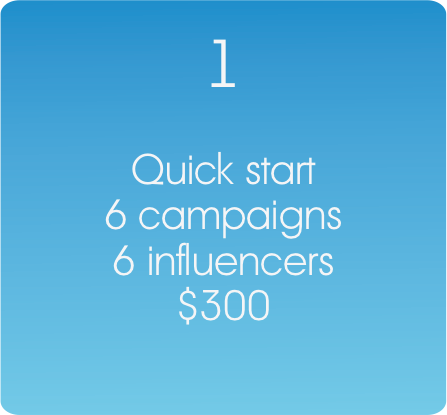
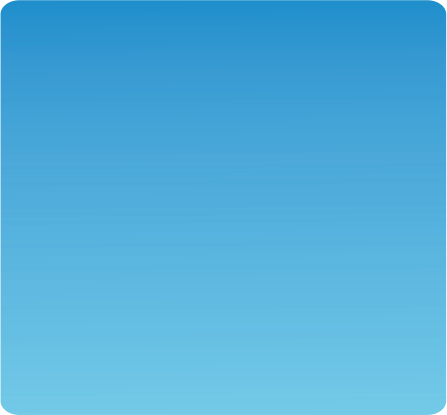
latest

diff --git a/src/components/businessComponents/AnimationTwoFactoryFour.js b/src/components/businessComponents/AnimationTwoFactoryFour.js
@@ -94,7 +94,7 @@ const NewComponent = (props) => {
   const mount = useRef(null);
   const history = useHistory();
   //xx
-  const [topPosition,SetTopPosition] = useState(3);
+  const [topPosition,SetTopPosition] = useState(0);
 
   // var props = {
   //   page:3
@@ -351,6 +351,13 @@ const NewComponent = (props) => {
 
           const FirstPartOfText = () => {
             //1 part
+            Lines8_a_mesh.remove(TextmeshAn);
+            Lines8_a_mesh.remove(TextmeshAn2);
+            Lines8_a_mesh.remove(TextmeshAn3);
+            Lines8_a_mesh.remove(TextmeshAn4);
+            Lines8_a_mesh.remove(TextmeshAn5);
+            Lines8_a_mesh.remove(TextmeshAn6);
+
             textGeometryAn = new THREE.TextGeometry(LocalizeComponent.analyzeOne, textOptionsAn);
             TextmeshAn = new THREE.Mesh( textGeometryAn, textMaterialLeft );
             TextmeshAn.geometry.center();
@@ -395,6 +402,14 @@ const NewComponent = (props) => {
           }
 
           const SecondPartOfText = () => {
+
+            Lines8_a_mesh.remove(TextmeshAn);
+            Lines8_a_mesh.remove(TextmeshAn2);
+            Lines8_a_mesh.remove(TextmeshAn3);
+            Lines8_a_mesh.remove(TextmeshAn4);
+            Lines8_a_mesh.remove(TextmeshAn5);
+            Lines8_a_mesh.remove(TextmeshAn6);
+
             const textOptionsS = {
               font,
               size: 27, // font size
@@ -410,6 +425,12 @@ const NewComponent = (props) => {
           }
 
           const ThirdPartOfText = () => {
+
+            Lines8_a_mesh.remove(TextmeshAn);
+            Lines8_a_mesh.remove(TextmeshAn);
+            Lines8_a_mesh.remove(TextmeshAn2);
+
+
             const textOptionsS = {
               font,
               size: 27, // font size
@@ -423,8 +444,13 @@ const NewComponent = (props) => {
             Lines8_a_mesh.add(TextmeshAn);
               //1 part
           }
-//xx
+
           const FourPartOfText = () => {
+
+            Lines8_a_mesh.remove(TextmeshAn);
+            Lines8_a_mesh.remove(TextmeshAn2);
+            Lines8_a_mesh.remove(TextmeshAn3);
+
             const textOptionsS = {
               font,
               size: 27, // font size
@@ -439,20 +465,25 @@ const NewComponent = (props) => {
             //1 part
             //2 part
             textGeometryAn2 = new THREE.TextGeometry(LocalizeComponent.acceptTwo, textOptionsS);
-            TextmeshTwo = new THREE.Mesh( textGeometryAn2, textMaterialLeft );
-            TextmeshTwo.geometry.center();
-            TextmeshTwo.position.y = 0;
-            Lines8_a_mesh.add(TextmeshTwo);
+            TextmeshAn2 = new THREE.Mesh( textGeometryAn2, textMaterialLeft );
+            TextmeshAn2.geometry.center();
+            TextmeshAn2.position.y = 0;
+            Lines8_a_mesh.add(TextmeshAn2);
             //2 part
             //3 part
             textGeometryAn3 = new THREE.TextGeometry(LocalizeComponent.acceptThree, textOptionsS);
-            TextmeshThree = new THREE.Mesh( textGeometryAn3, textMaterialLeft );
-            TextmeshThree.geometry.center();
-            TextmeshThree.position.y = -40;
-            Lines8_a_mesh.add(TextmeshThree);
+            TextmeshAn3 = new THREE.Mesh( textGeometryAn3, textMaterialLeft );
+            TextmeshAn3.geometry.center();
+            TextmeshAn3.position.y = -40;
+            Lines8_a_mesh.add(TextmeshAn3);
             //3 part
           }
-          var TextsArray = [FirstPartOfText(),SecondPartOfText(),ThirdPartOfText(),FourPartOfText()];
+          var TextsArray = [
+            FirstPartOfText,
+            SecondPartOfText,
+            ThirdPartOfText,
+            FourPartOfText
+          ];
 
 
           //text
@@ -466,8 +497,12 @@ const NewComponent = (props) => {
                 currentPosition = 0;
               }
 
+
+
             Lines8_a.map.dispose();
             Lines8_a.map = new THREE.TextureLoader().load(OnTopArray[currentPosition]);
+            const callingFunc = TextsArray[currentPosition];
+            callingFunc();
           }
 
           const changeBack = () => {
@@ -476,10 +511,14 @@ const NewComponent = (props) => {
                 currentPosition--;
                 Lines8_a.map.dispose();
                 Lines8_a.map = new THREE.TextureLoader().load(OnTopArray[currentPosition]);
+                const callingFunc = TextsArray[currentPosition];
+                callingFunc();
               }
 
 
           }
+          const callingFunc = TextsArray[currentPosition];
+          callingFunc();
 
           //onTopLeft
           const onTopLeft_a = new THREE.MeshBasicMaterial({
@@ -523,7 +562,7 @@ const NewComponent = (props) => {
           });
           //onTopRight
 
-
+//xx
           //pricing
           const Pricing_a = new THREE.MeshBasicMaterial({
               map:new THREE.TextureLoader().load(Pricing)
@@ -537,6 +576,89 @@ const NewComponent = (props) => {
           Pricing_a_mesh.position.y = -1563;
           Pricing_a_mesh.scale.set(0.24,0.24,0.24);
           scene2.add(Pricing_a_mesh);
+
+          const textOptionsSp = {
+            font,
+            size: 37, // font size
+            height: 15, // how much extrusion (how thick / deep are the letters)
+          };
+
+          var textMaterialLeft = new THREE.MeshBasicMaterial(
+            { color: BlueTextColor }
+          );
+
+          var textGeometrySP = new THREE.TextGeometry(LocalizeComponent.SubscP, textOptionsSp);
+          var TextmeshSp = new THREE.Mesh( textGeometrySP, textMaterialLeft );
+          TextmeshSp.geometry.center();
+          TextmeshSp.position.y = 5;
+          Pricing_a_mesh.add(TextmeshSp);
+//xx
+          var priceArray = [
+            {
+              name:LocalizeComponent.p1,
+              compaign:LocalizeComponent.p2,
+              count:LocalizeComponent.p3,
+              price:LocalizeComponent.p4,
+              index:1,
+              s0:120,
+              s1:45,
+              s2:-5,
+              s3:-50,
+              s4:-100,
+              b1:50,
+              b2:-5,
+              b3:-55,
+              b4:-105,
+            },
+            {
+              name:LocalizeComponent.p5,
+              compaign:LocalizeComponent.p6,
+              count:LocalizeComponent.p3,
+              price:LocalizeComponent.p7,
+              index:2,
+              s0:120,
+              s1:45,
+              s2:-5,
+              s3:-50,
+              s4:-100,
+              b1:50,
+              b2:-5,
+              b3:-55,
+              b4:-105,
+            },
+            {
+              name:LocalizeComponent.p8,
+              compaign:LocalizeComponent.p6,
+              count:LocalizeComponent.p3,
+              price:LocalizeComponent.p9,
+              index:3,
+              s0:120,
+              s1:45,
+              s2:-5,
+              s3:-50,
+              s4:-100,
+              b1:50,
+              b2:-5,
+              b3:-55,
+              b4:-105,
+            },
+            {
+              name:LocalizeComponent.p10,
+              compaign:LocalizeComponent.p2,
+              count:LocalizeComponent.p3,
+              price:LocalizeComponent.p11,
+              index:4,
+              s0:120,
+              s1:45,
+              s2:-5,
+              s3:-50,
+              s4:-100,
+              b1:50,
+              b2:-5,
+              b3:-55,
+              b4:-105,
+            }
+          ]
           //pricing
 
           var smallPlansArray = [Plans1_small,Plans2_small,Plans3_small,Plans4_small];
@@ -560,6 +682,86 @@ const NewComponent = (props) => {
           Plans1_a_mesh.scale.set(0.21,0.21,0.21);
           scene2.add(Plans1_a_mesh);
 
+          var textOptionsBn = {
+            font,
+            size: 50, // font size
+            height: 5, // how much extrusion (how thick / deep are the letters)
+          };
+          var textOptionsQ = {
+            font,
+            size: 27, // font size
+            height: 5, // how much extrusion (how thick / deep are the letters)
+          };
+          var textMaterialQ = new THREE.MeshBasicMaterial(
+            { color: BlueTextColor }
+          );
+
+          var textGeometryindex = new THREE.TextGeometry("", textOptionsBn);
+          var TextmeshI = new THREE.Mesh( textGeometryindex, textMaterialQ );
+
+          var textGeometryQ = new THREE.TextGeometry("", textOptionsQ);
+          var TextmeshQ = new THREE.Mesh( textGeometryQ, textMaterialQ );
+
+          var textGeometryQ2 = new THREE.TextGeometry("", textOptionsQ);
+          var TextmeshQ2 = new THREE.Mesh( textGeometryQ2, textMaterialQ );
+
+          var textGeometryQ3 = new THREE.TextGeometry("", textOptionsQ);
+          var TextmeshQ3 = new THREE.Mesh( textGeometryQ3, textMaterialQ );
+
+          var textGeometryQ4 = new THREE.TextGeometry("", textOptionsQ);
+          var TextmeshQ4 = new THREE.Mesh( textGeometryQ4, textMaterialQ );
+
+          const setMesh = (mesh,meshObj,option) => {
+
+              mesh.remove(TextmeshI);
+              mesh.remove(TextmeshQ);
+              mesh.remove(TextmeshQ2);
+              mesh.remove(TextmeshQ3);
+              mesh.remove(TextmeshQ4);
+
+              var textMaterialQ = new THREE.MeshBasicMaterial(
+                { color: BlueTextColor }
+              );
+
+              if(option == 2){
+                textMaterialQ = new THREE.MeshBasicMaterial(
+                  { color: WhiteTextColor }
+                );
+              }
+
+              textGeometryindex = new THREE.TextGeometry(String(meshObj.index), textOptionsBn);
+              TextmeshI = new THREE.Mesh( textGeometryindex, textMaterialQ );
+              TextmeshI.geometry.center();
+              TextmeshI.position.y = meshObj.s0;
+              mesh.add(TextmeshI);
+
+              textGeometryQ = new THREE.TextGeometry(meshObj.name, textOptionsQ);
+              TextmeshQ = new THREE.Mesh( textGeometryQ, textMaterialQ );
+              TextmeshQ.geometry.center();
+              TextmeshQ.position.y = meshObj.s1;
+              mesh.add(TextmeshQ);
+
+              textGeometryQ2 = new THREE.TextGeometry(meshObj.compaign, textOptionsQ);
+              TextmeshQ2 = new THREE.Mesh( textGeometryQ2, textMaterialQ );
+              TextmeshQ2.geometry.center();
+              TextmeshQ2.position.y = meshObj.s2;
+              mesh.add(TextmeshQ2);
+
+              textGeometryQ3 = new THREE.TextGeometry(meshObj.count, textOptionsQ);
+              TextmeshQ3 = new THREE.Mesh( textGeometryQ3, textMaterialQ );
+              TextmeshQ3.geometry.center();
+              TextmeshQ3.position.y = meshObj.s3;
+              mesh.add(TextmeshQ3);
+
+              textGeometryQ4 = new THREE.TextGeometry(meshObj.price, textOptionsQ);
+              TextmeshQ4 = new THREE.Mesh( textGeometryQ4, textMaterialQ );
+              TextmeshQ4.geometry.center();
+              TextmeshQ4.position.y = meshObj.s4;
+              mesh.add(TextmeshQ4);
+          }
+          setMesh(Plans1_a_mesh,priceArray[0],1);
+
+
           PlansArray.push(Plans1_a);
           MeshArrays.push(Plans1_a_mesh);
           //Plans1
@@ -577,6 +779,8 @@ const NewComponent = (props) => {
           Plans2_a_mesh.position.y = objectPositions[1].y;
           Plans2_a_mesh.scale.set(0.27,0.27,0.27);
           scene2.add(Plans2_a_mesh);
+
+          setMesh(Plans2_a_mesh,priceArray[1],2);
 
           PlansArray.push(Plans2_a);
           MeshArrays.push(Plans2_a_mesh);
@@ -596,6 +800,8 @@ const NewComponent = (props) => {
           Plans3_a_mesh.scale.set(0.21,0.21,0.21);
           scene2.add(Plans3_a_mesh);
 
+          setMesh(Plans3_a_mesh,priceArray[2],1);
+
           PlansArray.push(Plans3_a);
           MeshArrays.push(Plans3_a_mesh);
           //Plans3
@@ -614,6 +820,8 @@ const NewComponent = (props) => {
           Plans4_a_mesh.position.y = objectPositions[3].y;
           Plans4_a_mesh.scale.set(0.21,0.21,0.21);
           scene2.add(Plans4_a_mesh);
+
+          setMesh(Plans4_a_mesh,priceArray[3],1);
 
           PlansArray.push(Plans4_a);
           MeshArrays.push(Plans4_a_mesh);
@@ -713,7 +921,9 @@ const NewComponent = (props) => {
                         PlansArray[i].map.dispose();
                         PlansArray[i].map = new THREE.TextureLoader().load(bigPlansArray[i]);
                         MeshArrays[i].scale.set(0.27,0.27,0.27);
+                        setMesh(MeshArrays[i],priceArray[i],2);
                         MeshArrays[i].position.y = objectPositions[i].y - 20;
+
                         //console.log("current Position " + i);
                         lastFixed = i;
 
@@ -722,7 +932,9 @@ const NewComponent = (props) => {
                             PlansArray[j].map.dispose();
                             PlansArray[j].map = new THREE.TextureLoader().load(smallPlansArray[j]);
                             MeshArrays[j].scale.set(0.21,0.21,0.21);
+                            setMesh(MeshArrays[j],priceArray[j],1);
                             MeshArrays[i].position.y = objectPositions[i].y;
+
                             //Plans2_a_mesh.scale.set(0.27,0.27,0.27);
                           }
                         }

diff --git a/src/localize/LocalizeComponent.js b/src/localize/LocalizeComponent.js
@@ -169,6 +169,18 @@ let strings = new LocalizedStrings({
    acceptT:"Accept the visual content",
    acceptTwo:"proposal or recommend a",
    acceptThree:"change. Chat with influencer",
+   SubscP:"Subscribtion plans",
+   p1:"Quick start",
+   p2:"6 compaign",
+   p3:"6 influencers",
+   p4:"$300",
+   p5:"Massive spreading",
+   p6:"12 compaigns",
+   p7:"$3000",
+   p8:"Popular",
+   p9:"$350",
+   p10:"National",
+   p11:"$2700",
 
 
 
